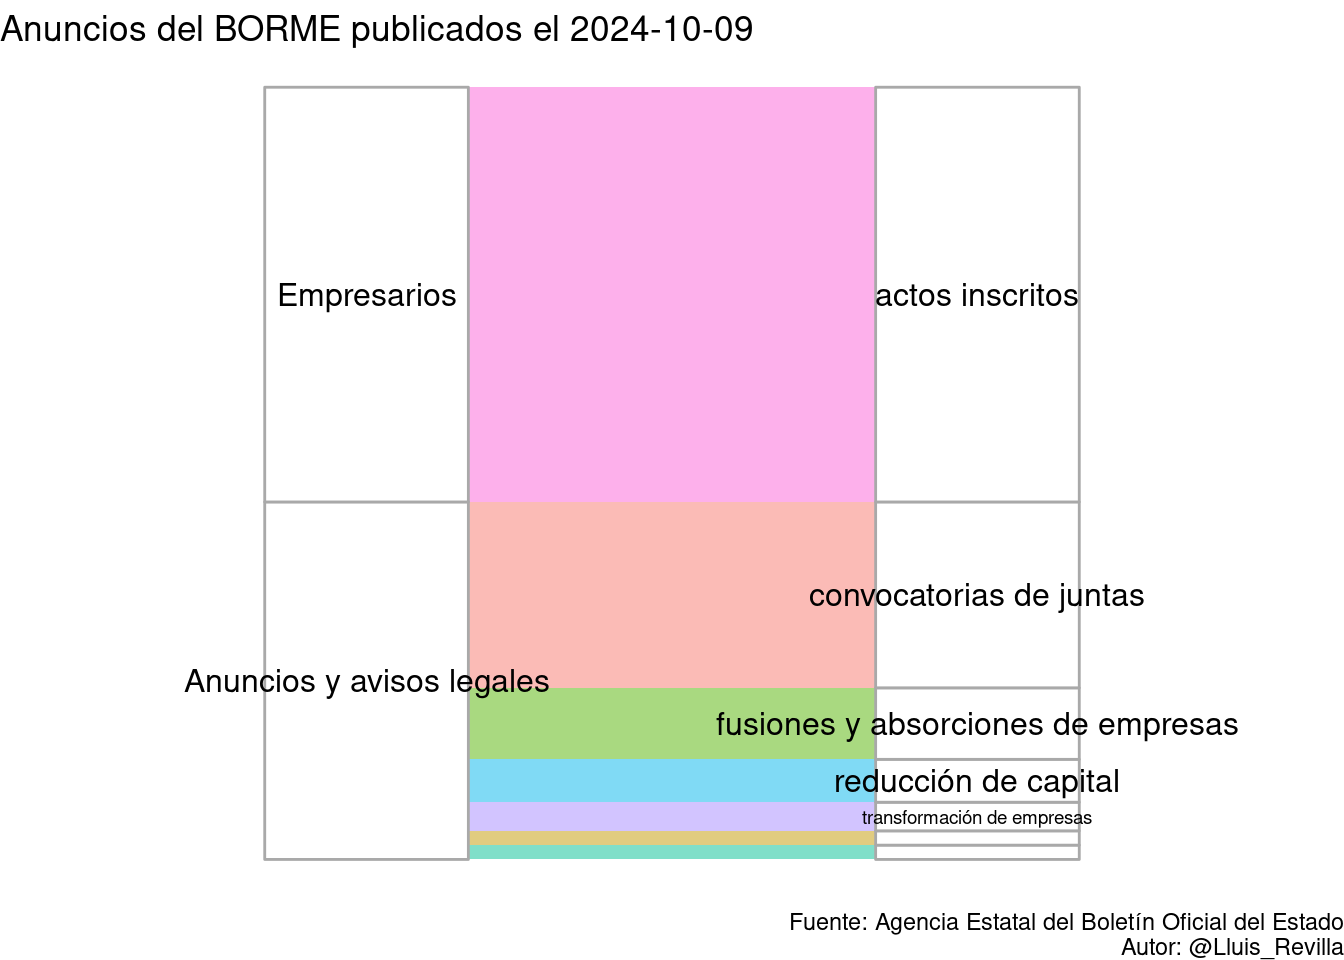
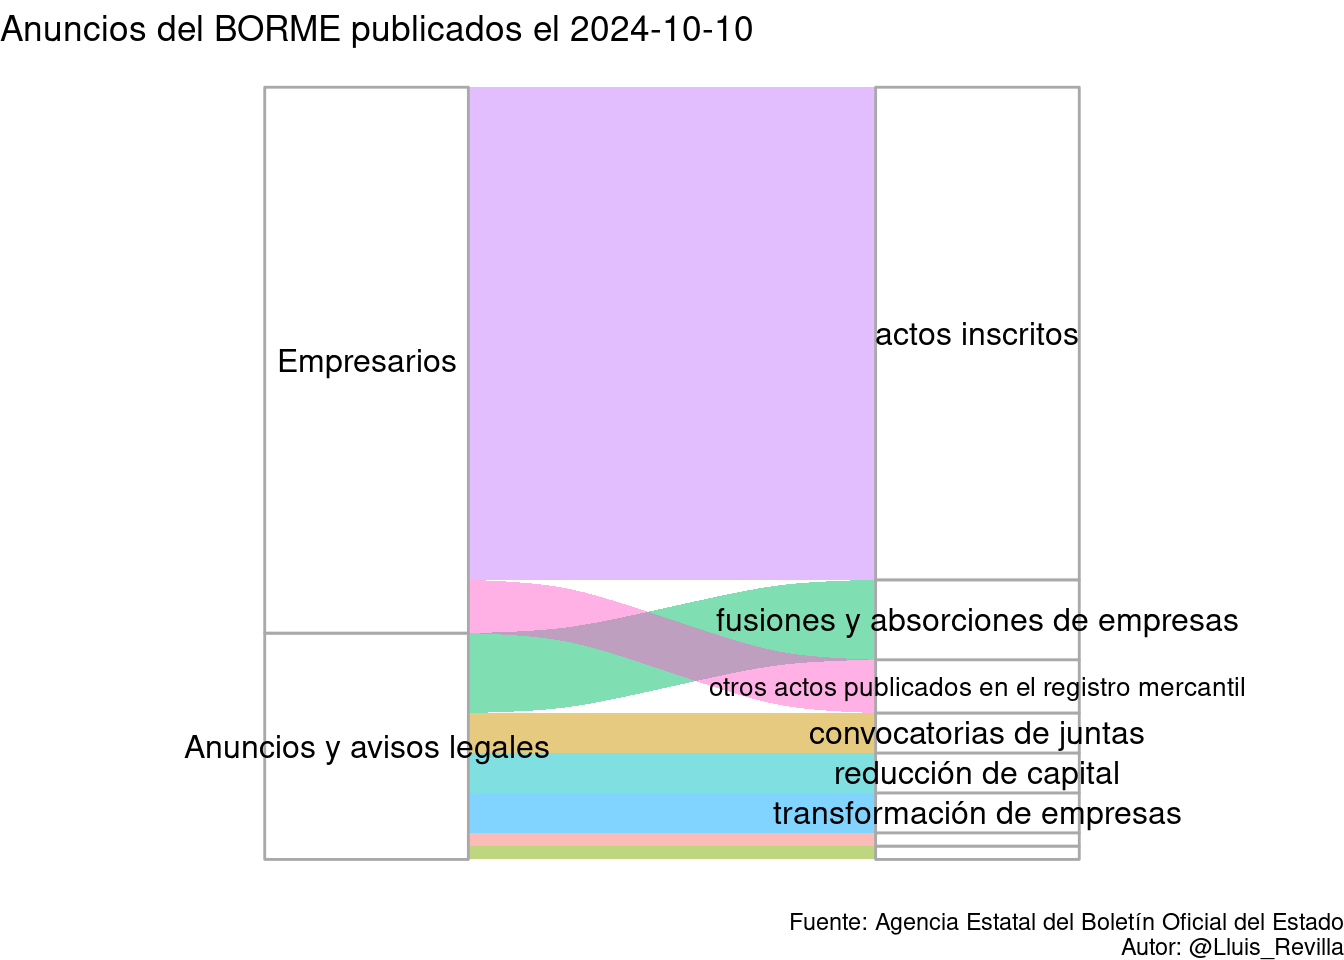
Update BORME

Changed region(s): [[0.125, 0.0938, 0.9375, 0.9062], [0.5312, 0.0, 0.5625, 0.0625]]

diff --git a/docs/last_BORME.html b/docs/last_BORME.html
@@ -379,14 +379,14 @@ $(document).ready(function () {
 
 <div id="resumen-gráfico" class="section level1">
 <h1>Resumen gráfico</h1>
-<p>Esta página web contiene el último sumario del BORME publicado el 2024-10-09 con 54 publicaciones.</p>
+<p>Esta página web contiene el último sumario del BORME publicado el 2024-10-10 con 58 publicaciones.</p>
 <p><img src="last_BORME_files/figure-html/graphics-1.png" width="672" /></p>
 </div>
 <div id="tabla-de-publicaciones" class="section level1">
 <h1>Tabla de publicaciones</h1>
 <p>Aquí está la tabla completa con enlaces a las publicaciones:</p>
-<div class="datatables html-widget html-fill-item-overflow-hidden html-fill-item" id="htmlwidget-3debe7f3fd8110e126fe" style="width:100%;height:auto;"></div>
-<script type="application/json" data-for="htmlwidget-3debe7f3fd8110e126fe">{"x":{"filter":"top","vertical":false,"filterHTML":"<tr>\n  <td><\/td>\n  <td data-type=\"character\" style=\"vertical-align: top;\">\n    <div class=\"form-group has-feedback\" style=\"margin-bottom: auto;\">\n      <input type=\"search\" placeholder=\"All\" class=\"form-control\" style=\"width: 100%;\"/>\n      <span class=\"glyphicon glyphicon-remove-circle form-control-feedback\"><\/span>\n    <\/div>\n  <\/td>\n  <td data-type=\"character\" style=\"vertical-align: top;\">\n    <div class=\"form-group has-feedback\" style=\"margin-bottom: auto;\">\n      <input type=\"search\" placeholder=\"All\" class=\"form-control\" style=\"width: 100%;\"/>\n      <span class=\"glyphicon glyphicon-remove-circle form-control-feedback\"><\/span>\n    <\/div>\n  <\/td>\n  <td data-type=\"character\" style=\"vertical-align: top;\">\n    <div class=\"form-group has-feedback\" style=\"margin-bottom: auto;\">\n      <input type=\"search\" placeholder=\"All\" class=\"form-control\" style=\"width: 100%;\" disabled=\"\"/>\n      <span class=\"glyphicon glyphicon-remove-circle form-control-feedback\"><\/span>\n    <\/div>\n  <\/td>\n  <td data-type=\"character\" style=\"vertical-align: top;\">\n    <div class=\"form-group has-feedback\" style=\"margin-bottom: auto;\">\n      <input type=\"search\" placeholder=\"All\" class=\"form-control\" style=\"width: 100%;\"/>\n      <span class=\"glyphicon glyphicon-remove-circle form-control-feedback\"><\/span>\n    <\/div>\n  <\/td>\n<\/tr>","data":[["1","2","3","4","5","6","7","8","9","10","11","12","13","14","15","16","17","18","19","20","21","22","23","24","25","26","27","28","29","30","31","32","33","34","35","36","37","38","39","40","41","42","43","44","45","46","47","48","49","50","51","52","53","54"],["SECCIÓN PRIMERA. Empresarios","SECCIÓN PRIMERA. Empresarios","SECCIÓN PRIMERA. Empresarios","SECCIÓN PRIMERA. Empresarios","SECCIÓN PRIMERA. Empresarios","SECCIÓN PRIMERA. Empresarios","SECCIÓN PRIMERA. Empresarios","SECCIÓN PRIMERA. Empresarios","SECCIÓN PRIMERA. Empresarios","SECCIÓN PRIMERA. Empresarios","SECCIÓN PRIMERA. Empresarios","SECCIÓN PRIMERA. Empresarios","SECCIÓN PRIMERA. Empresarios","SECCIÓN PRIMERA. Empresarios","SECCIÓN PRIMERA. Empresarios","SECCIÓN PRIMERA. Empresarios","SECCIÓN PRIMERA. Empresarios","SECCIÓN PRIMERA. Empresarios","SECCIÓN PRIMERA. Empresarios","SECCIÓN PRIMERA. Empresarios","SECCIÓN PRIMERA. Empresarios","SECCIÓN PRIMERA. Empresarios","SECCIÓN PRIMERA. Empresarios","SECCIÓN PRIMERA. Empresarios","SECCIÓN PRIMERA. Empresarios","SECCIÓN PRIMERA. Empresarios","SECCIÓN PRIMERA. Empresarios","SECCIÓN PRIMERA. Empresarios","SECCIÓN PRIMERA. Empresarios","SECCIÓN SEGUNDA. Anuncios y avisos legales","SECCIÓN SEGUNDA. Anuncios y avisos legales","SECCIÓN SEGUNDA. Anuncios y avisos legales","SECCIÓN SEGUNDA. Anuncios y avisos legales","SECCIÓN SEGUNDA. Anuncios y avisos legales","SECCIÓN SEGUNDA. Anuncios y avisos legales","SECCIÓN SEGUNDA. Anuncios y avisos legales","SECCIÓN SEGUNDA. Anuncios y avisos legales","SECCIÓN SEGUNDA. Anuncios y avisos legales","SECCIÓN SEGUNDA. Anuncios y avisos legales","SECCIÓN SEGUNDA. Anuncios y avisos legales","SECCIÓN SEGUNDA. Anuncios y avisos legales","SECCIÓN SEGUNDA. Anuncios y avisos legales","SECCIÓN SEGUNDA. Anuncios y avisos legales","SECCIÓN SEGUNDA. Anuncios y avisos legales","SECCIÓN SEGUNDA. Anuncios y avisos legales","SECCIÓN SEGUNDA. Anuncios y avisos legales","SECCIÓN SEGUNDA. Anuncios y avisos legales","SECCIÓN SEGUNDA. Anuncios y avisos legales","SECCIÓN SEGUNDA. Anuncios y avisos legales","SECCIÓN SEGUNDA. Anuncios y avisos legales","SECCIÓN SEGUNDA. Anuncios y avisos legales","SECCIÓN SEGUNDA. Anuncios y avisos legales","SECCIÓN SEGUNDA. Anuncios y avisos legales","SECCIÓN SEGUNDA. Anuncios y avisos legales"],["Actos inscritos","Actos inscritos","Actos inscritos","Actos inscritos","Actos inscritos","Actos inscritos","Actos inscritos","Actos inscritos","Actos inscritos","Actos inscritos","Actos inscritos","Actos inscritos","Actos inscritos","Actos inscritos","Actos inscritos","Actos inscritos","Actos inscritos","Actos inscritos","Actos inscritos","Actos inscritos","Actos inscritos","Actos inscritos","Actos inscritos","Actos inscritos","Actos inscritos","Actos inscritos","Actos inscritos","Actos inscritos","Actos inscritos","CONVOCATORIAS DE JUNTAS","CONVOCATORIAS DE JUNTAS","CONVOCATORIAS DE JUNTAS","CONVOCATORIAS DE JUNTAS","CONVOCATORIAS DE JUNTAS","CONVOCATORIAS DE JUNTAS","CONVOCATORIAS DE JUNTAS","CONVOCATORIAS DE JUNTAS","CONVOCATORIAS DE JUNTAS","CONVOCATORIAS DE JUNTAS","CONVOCATORIAS DE JUNTAS","CONVOCATORIAS DE JUNTAS","CONVOCATORIAS DE JUNTAS","FUSIONES Y ABSORCIONES DE EMPRESAS","FUSIONES Y ABSORCIONES DE EMPRESAS","FUSIONES Y ABSORCIONES DE EMPRESAS","FUSIONES Y ABSORCIONES DE EMPRESAS","FUSIONES Y ABSORCIONES DE EMPRESAS","ESCISIÓN DE EMPRESAS","TRANSFORMACIÓN DE EMPRESAS","TRANSFORMACIÓN DE EMPRESAS","REDUCCIÓN DE CAPITAL","REDUCCIÓN DE CAPITAL","REDUCCIÓN DE CAPITAL","OTROS ANUNCIOS Y AVISOS LEGALES"],[null,null,null,null,null,null,null,null,null,null,null,null,null,null,null,null,null,null,null,null,null,null,null,null,null,null,null,null,null,null,null,null,null,null,null,null,null,null,null,null,null,null,null,null,null,null,null,null,null,null,null,null,null,null],["BORME-A-2024-195-03","BORME-A-2024-195-04","BORME-A-2024-195-06","BORME-A-2024-195-07","BORME-A-2024-195-08","BORME-A-2024-195-11","BORME-A-2024-195-14","BORME-A-2024-195-15","BORME-A-2024-195-16","BORME-A-2024-195-17","BORME-A-2024-195-22","BORME-A-2024-195-23","BORME-A-2024-195-24","BORME-A-2024-195-26","BORME-A-2024-195-28","BORME-A-2024-195-30","BORME-A-2024-195-31","BORME-A-2024-195-33","BORME-A-2024-195-35","BORME-A-2024-195-36","BORME-A-2024-195-38","BORME-A-2024-195-43","BORME-A-2024-195-44","BORME-A-2024-195-45","BORME-A-2024-195-46","BORME-A-2024-195-47","BORME-A-2024-195-50","BORME-A-2024-195-52","BORME-A-2024-195-99","BORME-C-2024-5433","BORME-C-2024-5434","BORME-C-2024-5435","BORME-C-2024-5436","BORME-C-2024-5437","BORME-C-2024-5438","BORME-C-2024-5439","BORME-C-2024-5440","BORME-C-2024-5441","BORME-C-2024-5442","BORME-C-2024-5443","BORME-C-2024-5444","BORME-C-2024-5445","BORME-C-2024-5446","BORME-C-2024-5447","BORME-C-2024-5448","BORME-C-2024-5449","BORME-C-2024-5450","BORME-C-2024-5451","BORME-C-2024-5452","BORME-C-2024-5453","BORME-C-2024-5454","BORME-C-2024-5455","BORME-C-2024-5456","BORME-C-2024-5457"]],"container":"<table class=\"display\">\n  <thead>\n    <tr>\n      <th> <\/th>\n      <th>Sección<\/th>\n      <th>Emisor<\/th>\n      <th>Texto<\/th>\n      <th>Link<\/th>\n    <\/tr>\n  <\/thead>\n<\/table>","options":{"pageLength":10,"autoWidth":true,"columnDefs":[{"orderable":false,"targets":0},{"name":" ","targets":0},{"name":"Sección","targets":1},{"name":"Emisor","targets":2},{"name":"Texto","targets":3},{"name":"Link","targets":4}],"order":[],"orderClasses":false,"orderCellsTop":true}},"evals":[],"jsHooks":[]}</script>
+<div class="datatables html-widget html-fill-item-overflow-hidden html-fill-item" id="htmlwidget-3c55250176e46bdb796e" style="width:100%;height:auto;"></div>
+<script type="application/json" data-for="htmlwidget-3c55250176e46bdb796e">{"x":{"filter":"top","vertical":false,"filterHTML":"<tr>\n  <td><\/td>\n  <td data-type=\"character\" style=\"vertical-align: top;\">\n    <div class=\"form-group has-feedback\" style=\"margin-bottom: auto;\">\n      <input type=\"search\" placeholder=\"All\" class=\"form-control\" style=\"width: 100%;\"/>\n      <span class=\"glyphicon glyphicon-remove-circle form-control-feedback\"><\/span>\n    <\/div>\n  <\/td>\n  <td data-type=\"character\" style=\"vertical-align: top;\">\n    <div class=\"form-group has-feedback\" style=\"margin-bottom: auto;\">\n      <input type=\"search\" placeholder=\"All\" class=\"form-control\" style=\"width: 100%;\"/>\n      <span class=\"glyphicon glyphicon-remove-circle form-control-feedback\"><\/span>\n    <\/div>\n  <\/td>\n  <td data-type=\"character\" style=\"vertical-align: top;\">\n    <div class=\"form-group has-feedback\" style=\"margin-bottom: auto;\">\n      <input type=\"search\" placeholder=\"All\" class=\"form-control\" style=\"width: 100%;\" disabled=\"\"/>\n      <span class=\"glyphicon glyphicon-remove-circle form-control-feedback\"><\/span>\n    <\/div>\n  <\/td>\n  <td data-type=\"character\" style=\"vertical-align: top;\">\n    <div class=\"form-group has-feedback\" style=\"margin-bottom: auto;\">\n      <input type=\"search\" placeholder=\"All\" class=\"form-control\" style=\"width: 100%;\"/>\n      <span class=\"glyphicon glyphicon-remove-circle form-control-feedback\"><\/span>\n    <\/div>\n  <\/td>\n<\/tr>","data":[["1","2","3","4","5","6","7","8","9","10","11","12","13","14","15","16","17","18","19","20","21","22","23","24","25","26","27","28","29","30","31","32","33","34","35","36","37","38","39","40","41","42","43","44","45","46","47","48","49","50","51","52","53","54","55","56","57","58"],["SECCIÓN PRIMERA. Empresarios","SECCIÓN PRIMERA. Empresarios","SECCIÓN PRIMERA. Empresarios","SECCIÓN PRIMERA. Empresarios","SECCIÓN PRIMERA. Empresarios","SECCIÓN PRIMERA. Empresarios","SECCIÓN PRIMERA. Empresarios","SECCIÓN PRIMERA. Empresarios","SECCIÓN PRIMERA. Empresarios","SECCIÓN PRIMERA. Empresarios","SECCIÓN PRIMERA. Empresarios","SECCIÓN PRIMERA. Empresarios","SECCIÓN PRIMERA. Empresarios","SECCIÓN PRIMERA. Empresarios","SECCIÓN PRIMERA. Empresarios","SECCIÓN PRIMERA. Empresarios","SECCIÓN PRIMERA. Empresarios","SECCIÓN PRIMERA. Empresarios","SECCIÓN PRIMERA. Empresarios","SECCIÓN PRIMERA. Empresarios","SECCIÓN PRIMERA. Empresarios","SECCIÓN PRIMERA. Empresarios","SECCIÓN PRIMERA. Empresarios","SECCIÓN PRIMERA. Empresarios","SECCIÓN PRIMERA. Empresarios","SECCIÓN PRIMERA. Empresarios","SECCIÓN PRIMERA. Empresarios","SECCIÓN PRIMERA. Empresarios","SECCIÓN PRIMERA. Empresarios","SECCIÓN PRIMERA. Empresarios","SECCIÓN PRIMERA. Empresarios","SECCIÓN PRIMERA. Empresarios","SECCIÓN PRIMERA. Empresarios","SECCIÓN PRIMERA. Empresarios","SECCIÓN PRIMERA. Empresarios","SECCIÓN PRIMERA. Empresarios","SECCIÓN PRIMERA. Empresarios","SECCIÓN PRIMERA. Empresarios","SECCIÓN PRIMERA. Empresarios","SECCIÓN PRIMERA. Empresarios","SECCIÓN PRIMERA. Empresarios","SECCIÓN SEGUNDA. Anuncios y avisos legales","SECCIÓN SEGUNDA. Anuncios y avisos legales","SECCIÓN SEGUNDA. Anuncios y avisos legales","SECCIÓN SEGUNDA. Anuncios y avisos legales","SECCIÓN SEGUNDA. Anuncios y avisos legales","SECCIÓN SEGUNDA. Anuncios y avisos legales","SECCIÓN SEGUNDA. Anuncios y avisos legales","SECCIÓN SEGUNDA. Anuncios y avisos legales","SECCIÓN SEGUNDA. Anuncios y avisos legales","SECCIÓN SEGUNDA. Anuncios y avisos legales","SECCIÓN SEGUNDA. Anuncios y avisos legales","SECCIÓN SEGUNDA. Anuncios y avisos legales","SECCIÓN SEGUNDA. Anuncios y avisos legales","SECCIÓN SEGUNDA. Anuncios y avisos legales","SECCIÓN SEGUNDA. Anuncios y avisos legales","SECCIÓN SEGUNDA. Anuncios y avisos legales","SECCIÓN SEGUNDA. Anuncios y avisos legales"],["Actos inscritos","Actos inscritos","Actos inscritos","Actos inscritos","Actos inscritos","Actos inscritos","Actos inscritos","Actos inscritos","Actos inscritos","Actos inscritos","Actos inscritos","Actos inscritos","Actos inscritos","Actos inscritos","Actos inscritos","Actos inscritos","Actos inscritos","Actos inscritos","Actos inscritos","Actos inscritos","Actos inscritos","Actos inscritos","Actos inscritos","Actos inscritos","Actos inscritos","Actos inscritos","Actos inscritos","Actos inscritos","Actos inscritos","Actos inscritos","Actos inscritos","Actos inscritos","Actos inscritos","Actos inscritos","Actos inscritos","Actos inscritos","Actos inscritos","Otros actos publicados en el Registro Mercantil","Otros actos publicados en el Registro Mercantil","Otros actos publicados en el Registro Mercantil","Otros actos publicados en el Registro Mercantil","CONVOCATORIAS DE JUNTAS","CONVOCATORIAS DE JUNTAS","CONVOCATORIAS DE JUNTAS","FUSIONES Y ABSORCIONES DE EMPRESAS","FUSIONES Y ABSORCIONES DE EMPRESAS","FUSIONES Y ABSORCIONES DE EMPRESAS","FUSIONES Y ABSORCIONES DE EMPRESAS","FUSIONES Y ABSORCIONES DE EMPRESAS","FUSIONES Y ABSORCIONES DE EMPRESAS","ESCISIÓN DE EMPRESAS","TRANSFORMACIÓN DE EMPRESAS","TRANSFORMACIÓN DE EMPRESAS","TRANSFORMACIÓN DE EMPRESAS","AUMENTO DE CAPITAL","REDUCCIÓN DE CAPITAL","REDUCCIÓN DE CAPITAL","REDUCCIÓN DE CAPITAL"],[null,null,null,null,null,null,null,null,null,null,null,null,null,null,null,null,null,null,null,null,null,null,null,null,null,null,null,null,null,null,null,null,null,null,null,null,null,null,null,null,null,null,null,null,null,null,null,null,null,null,null,null,null,null,null,null,null,null],["BORME-A-2024-196-02","BORME-A-2024-196-03","BORME-A-2024-196-04","BORME-A-2024-196-06","BORME-A-2024-196-07","BORME-A-2024-196-08","BORME-A-2024-196-09","BORME-A-2024-196-11","BORME-A-2024-196-12","BORME-A-2024-196-13","BORME-A-2024-196-14","BORME-A-2024-196-15","BORME-A-2024-196-17","BORME-A-2024-196-18","BORME-A-2024-196-22","BORME-A-2024-196-23","BORME-A-2024-196-24","BORME-A-2024-196-26","BORME-A-2024-196-27","BORME-A-2024-196-28","BORME-A-2024-196-29","BORME-A-2024-196-30","BORME-A-2024-196-31","BORME-A-2024-196-33","BORME-A-2024-196-34","BORME-A-2024-196-35","BORME-A-2024-196-36","BORME-A-2024-196-39","BORME-A-2024-196-40","BORME-A-2024-196-41","BORME-A-2024-196-43","BORME-A-2024-196-45","BORME-A-2024-196-46","BORME-A-2024-196-47","BORME-A-2024-196-48","BORME-A-2024-196-50","BORME-A-2024-196-99","BORME-B-2024-196-15","BORME-B-2024-196-28","BORME-B-2024-196-29","BORME-B-2024-196-48","BORME-C-2024-5458","BORME-C-2024-5459","BORME-C-2024-5460","BORME-C-2024-5461","BORME-C-2024-5462","BORME-C-2024-5463","BORME-C-2024-5464","BORME-C-2024-5465","BORME-C-2024-5466","BORME-C-2024-5467","BORME-C-2024-5468","BORME-C-2024-5469","BORME-C-2024-5470","BORME-C-2024-5471","BORME-C-2024-5472","BORME-C-2024-5473","BORME-C-2024-5474"]],"container":"<table class=\"display\">\n  <thead>\n    <tr>\n      <th> <\/th>\n      <th>Sección<\/th>\n      <th>Emisor<\/th>\n      <th>Texto<\/th>\n      <th>Link<\/th>\n    <\/tr>\n  <\/thead>\n<\/table>","options":{"pageLength":10,"autoWidth":true,"columnDefs":[{"orderable":false,"targets":0},{"name":" ","targets":0},{"name":"Sección","targets":1},{"name":"Emisor","targets":2},{"name":"Texto","targets":3},{"name":"Link","targets":4}],"order":[],"orderClasses":false,"orderCellsTop":true}},"evals":[],"jsHooks":[]}</script>
 </div>
 
 
